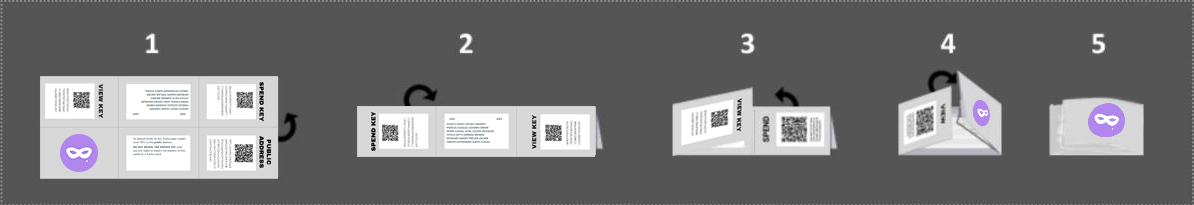
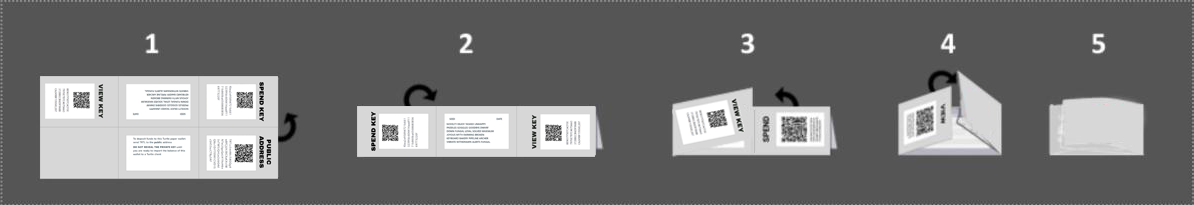
Better forking ability

diff --git a/style.css b/style.css
@@ -96,6 +96,87 @@ body {
   margin-bottom: 5px;
 }
 
+
+
+.folding-logo img {
+  height: 21px;
+  width: auto;
+}
+ .folding-logo-text {
+   position: absolute;
+   text-align: center;
+   left: 5px;
+   top: 114px;
+   width: 75px;
+   height: 165px;
+   font-size: 7px;
+   color: #193039;
+   font-weight: 500;
+   letter-spacing: 0.05em;
+}
+ .folding-logo-text ul {
+  list-style: none;
+}
+ .folding-logo-text ul li {
+  margin-bottom: 5px;
+}
+
+
+.folding2-logo img {
+  height: 19px;
+  width: auto;
+}
+ .folding2-logo-text {
+  position: absolute;
+  text-align: center;
+  right: 160px;
+  top: 67px;
+  width: 75px;
+  height: 165px;
+  font-size: 4px;
+  color: #193039;
+  font-weight: 500;
+  letter-spacing: 0.05em;
+  webkit-transform: rotate(6deg);
+  -ms-transform: skewY(35deg);
+  -webkit-transform: skewY(35deg);
+  transform: skewY(35deg);
+}
+ .folding2-logo-text ul {
+  list-style: none;
+}
+ .folding2-logo-text ul li {
+  margin-bottom: 5px;
+}
+
+
+.folding3-logo img {
+  height: 21px;
+  width: auto;
+}
+ .folding3-logo-text {
+  position: absolute;
+  text-align: center;
+  right: 66px;
+  top: 85px;
+  width: 75px;
+  height: 165px;
+  font-size: 7px;
+  color: #193039;
+  font-weight: 500;
+  letter-spacing: 0.05em;
+  webkit-transform: rotate(6deg);
+  transform: rotate(6deg);
+  -ms-transform: rotate(6deg);
+  -webkit-transform: rotate(6deg);
+}
+ .folding3-logo-text ul {
+  list-style: none;
+}
+ .folding3-logo-text ul li {
+  margin-bottom: 5px;
+}
+
 .amount-added-text, .date-text, .note-text {
   position: absolute;
   height: 20px;

diff --git a/index.html b/index.html
@@ -19,7 +19,7 @@
           To deposit funds to this Mask paper wallet: send MASK to the <b>public</b> address
         </li>
         <li>
-          <b>DO NOT REVEAL THE PRIVATE KEY</b> until you are ready to import the balance of this wallet to a Mask client 
+          <b>DO NOT REVEAL THE PRIVATE KEY</b> until you are ready to import the balance of this wallet to a Mask client
         </li>
       </ul>
     </div>
@@ -43,10 +43,43 @@
   <div class="buttons">
     <button type="button" onclick="js:genwallet(null)">Generate new</button>
     <button type="button" onClick="window.print()">Print</button>
-  
+
   </div>
   <div class="instruction">
     <img src="instructions.png"/>
+    <div class="folding-logo-text">
+      <ul>
+        <div class="folding-logo">
+          <img class="folding-logo" src="logo.png"/>
+        </div>
+        <li>
+          <b>MASK</b>
+        </li>
+      </ul>
+    </div>
+    <div class="folding2-logo-text">
+      <ul>
+        <div class="folding2-logo">
+          <img class="folding2-logo" src="logo.png"/>
+        </div>
+        <li>
+          <b>MASK</b>
+        </li>
+      </ul>
+    </div>
+    <div class="folding3-logo-text">
+      <ul>
+        <div class="folding3-logo">
+          <img class="folding3-logo" src="logo.png"/>
+        </div>
+        <li>
+          <b>MASK</b>
+        </li>
+      </ul>
+    </div>
+  </div>
+
+  </div>
   </div>
     <script src="wallet.js"></script>
       <script src="crypto_utils.js"></script>
